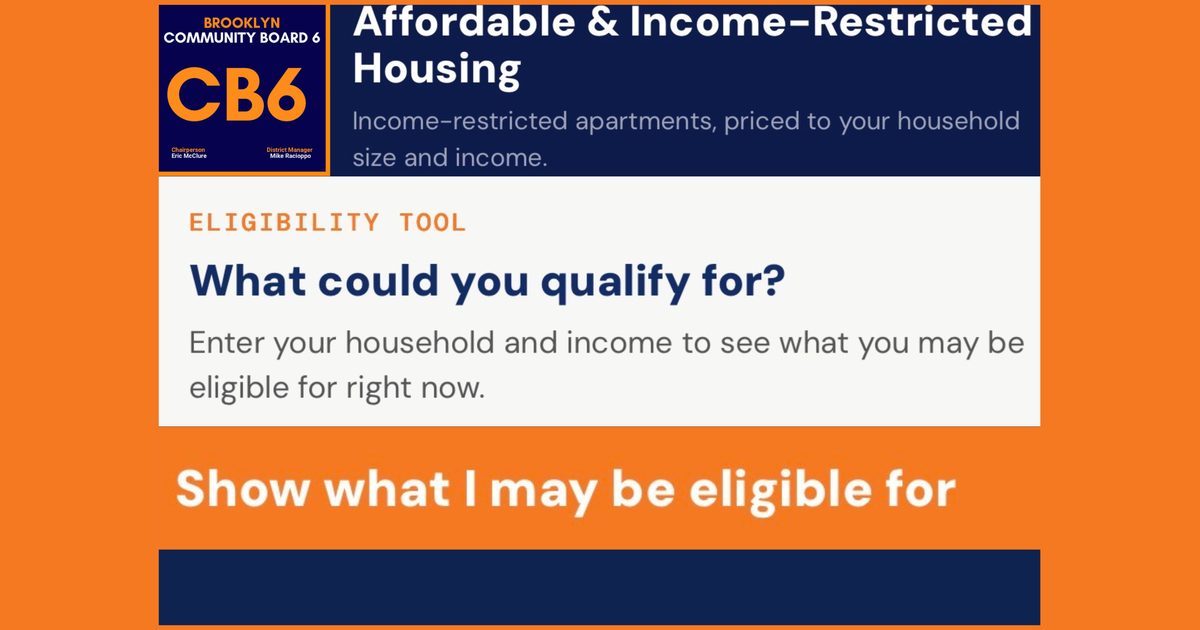
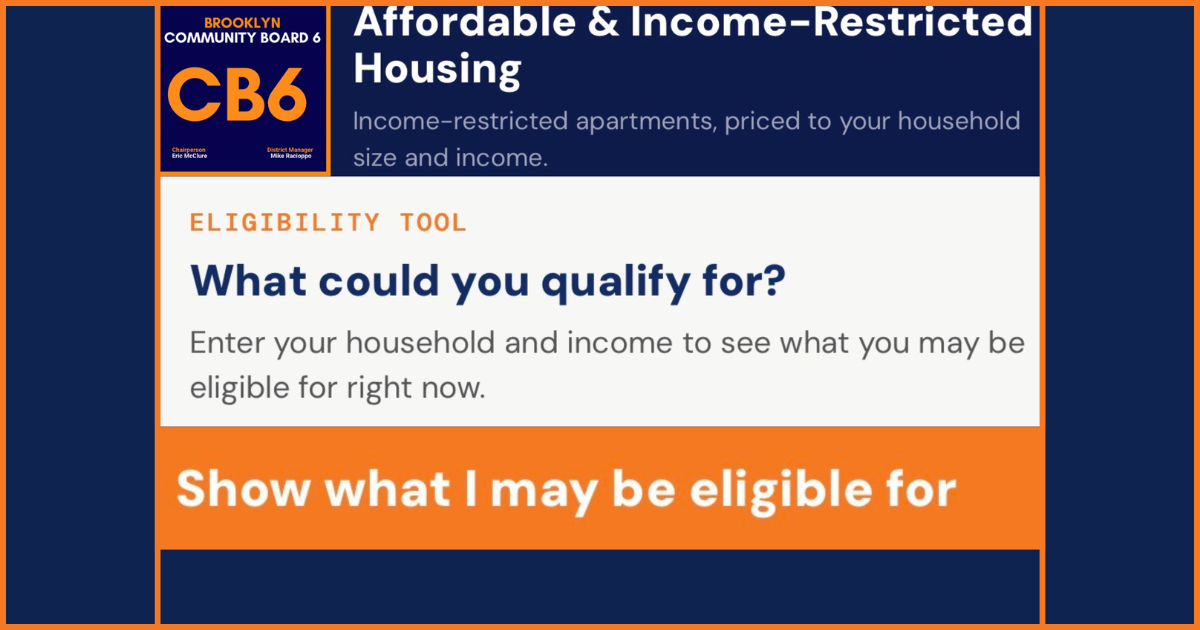
Replace share card with 1200x630 navy version

diff --git a/sw.js b/sw.js
@@ -1,5 +1,5 @@
 // CB6 & Beyond — Service Worker
-const CACHE_VERSION = 'cb6-v235';
+const CACHE_VERSION = 'cb6-v236';
 const CORE_ASSETS = [
   '/',
   '/index.html',
